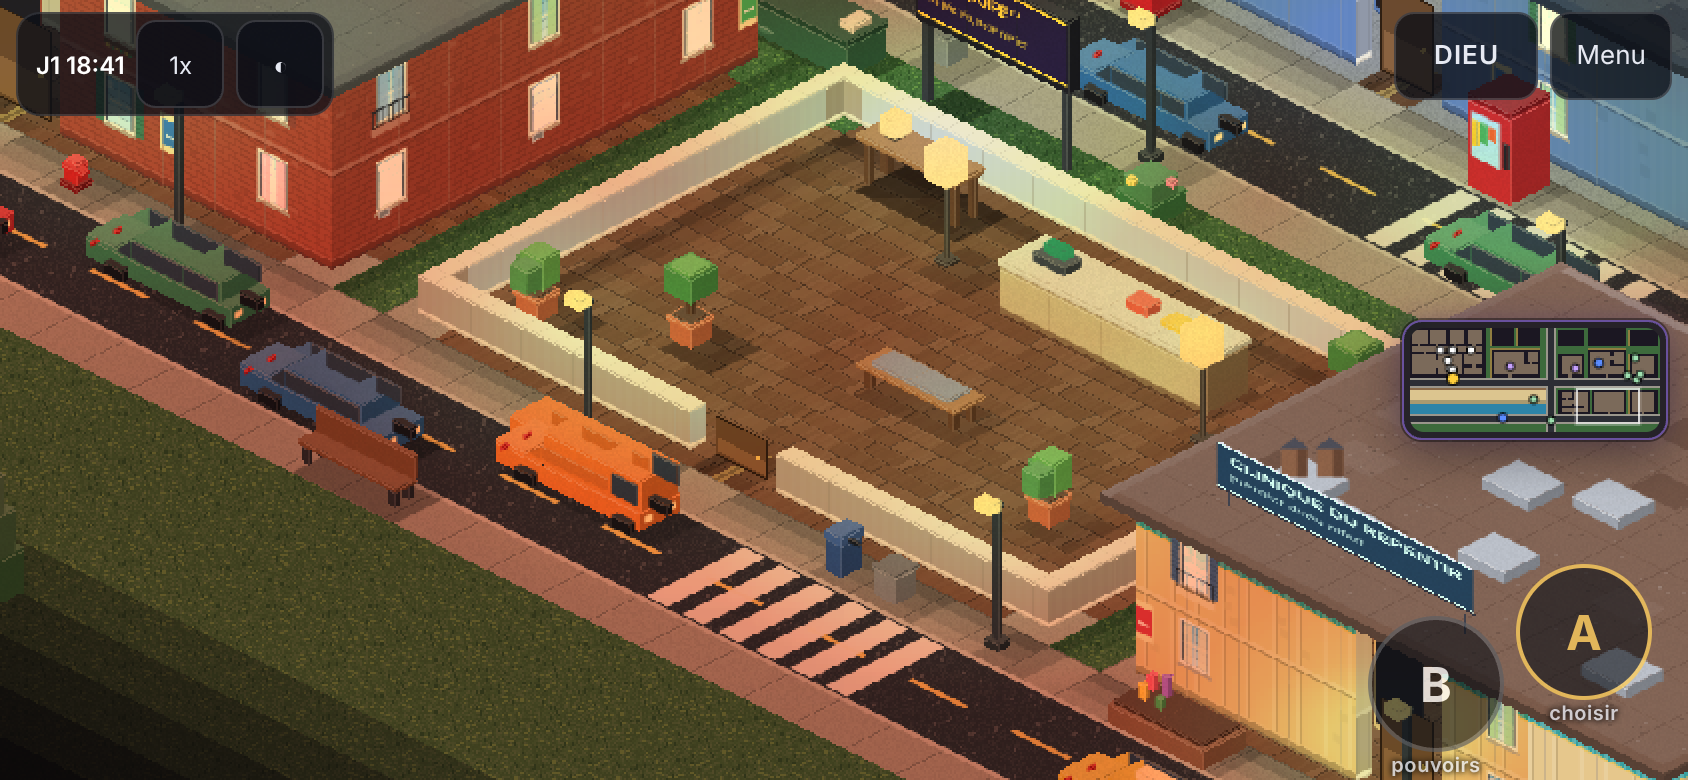
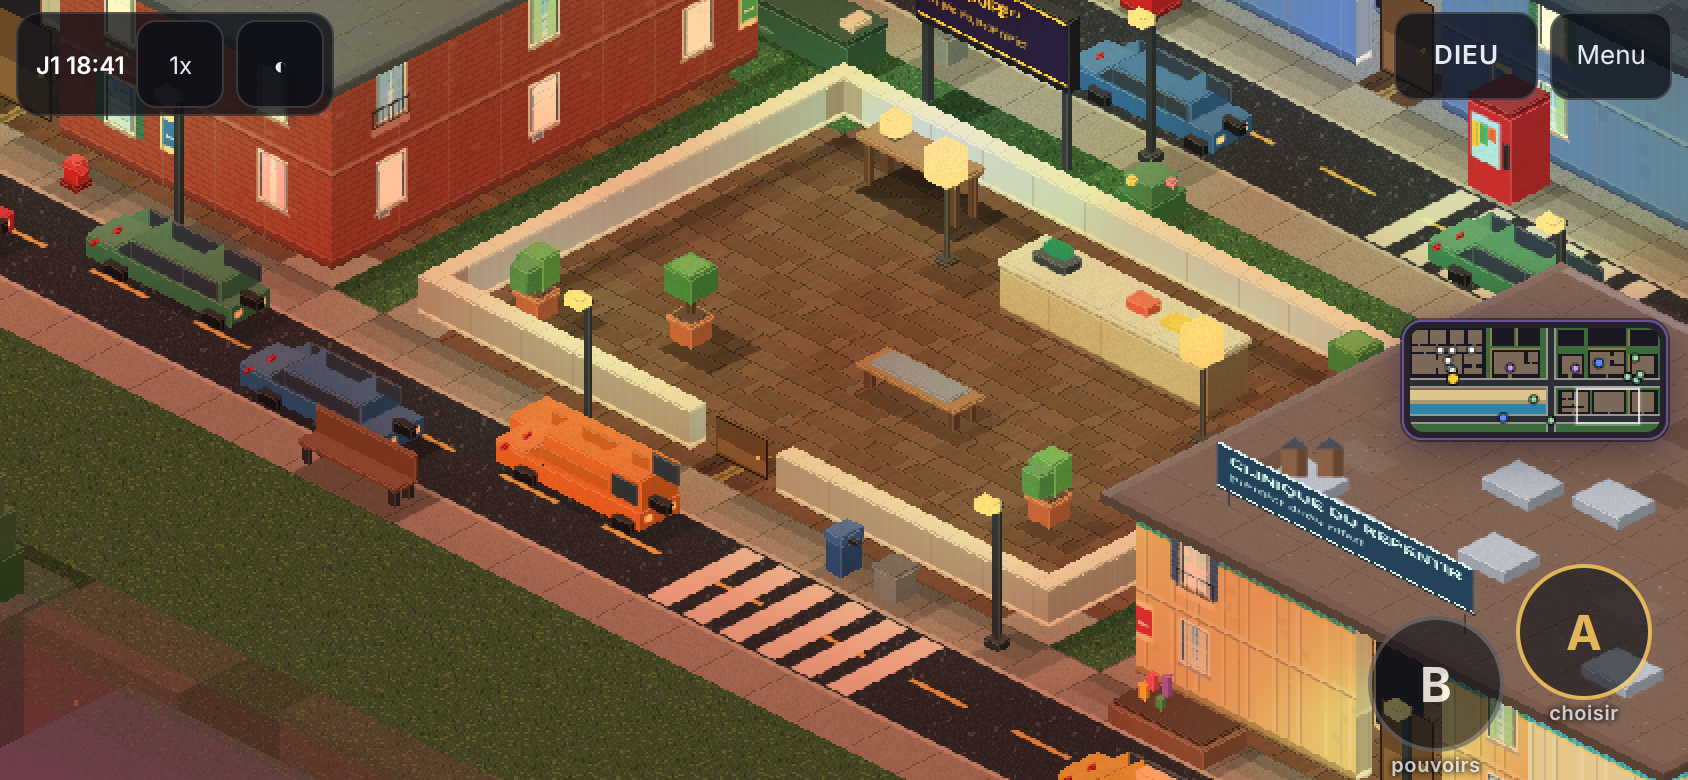
Captures (batterie en cours)
Claude-Session: https://claude.ai/code/session_01TgHL2ERFFt3nTP8cEL1RNQ

diff --git a/src/view/skyline.ts b/src/view/skyline.ts
@@ -1,0 +1,45 @@
+import Phaser from 'phaser';
+import * as L from '../sim/layout';
+import { toScreen } from './iso';
+import { hash2 } from '../art/core';
+
+/** Horizon urbain : rangées d'immeubles lointains (volumes isométriques voilés par la brume) tout autour de la carte jouable, pour que NORIA continue au-delà de ce qu'on voit.
+ *  Purement décoratif (non simulé, aucun sol marchable) ; dessiné une fois par rangée, sous le sol. */
+export class Skyline {
+  g: Phaser.GameObjects.Graphics;
+  constructor(scene: Phaser.Scene, private low: boolean) {
+    this.g = scene.add.graphics().setDepth(-3100); this.draw();
+  }
+  private box(x: number, y: number, w: number, d: number, h: number, base: number[], haze: number, seed: number) {
+    const g = this.g, P = (a: number, b: number, z: number) => { const s = toScreen(a, b); return { x: s.x, y: s.y - z }; };
+    const mix = (c: number[], k: number) => { const hz = [0.36, 0.28, 0.5]; return Phaser.Display.Color.GetColor(((c[0] * (1 - haze) + hz[0] * haze) * k) * 255, ((c[1] * (1 - haze) + hz[1] * haze) * k) * 255, ((c[2] * (1 - haze) + hz[2] * haze) * k) * 255); };
+    const quad = (pts: { x: number; y: number }[], col: number) => { g.fillStyle(col, 1); g.beginPath(); g.moveTo(pts[0].x, pts[0].y); for (let i = 1; i < pts.length; i++) g.lineTo(pts[i].x, pts[i].y); g.closePath(); g.fillPath(); };
+    quad([P(x, y + d, 0), P(x + w, y + d, 0), P(x + w, y + d, h), P(x, y + d, h)], mix(base, 0.92));
+    quad([P(x + w, y, 0), P(x + w, y + d, 0), P(x + w, y + d, h), P(x + w, y, h)], mix(base, 0.68));
+    quad([P(x, y, h), P(x + w, y, h), P(x + w, y + d, h), P(x, y + d, h)], mix(base, 1.12));
+    // fenêtres allumées (quelques points chauds sur la face sud)
+    const rows = Math.floor(h / 14), cols = Math.max(1, Math.floor(w * 1.4));
+    for (let r = 1; r < rows; r++) for (let c = 0; c < cols; c++) if (hash2(seed + r, c, 9) > 0.62) { const a = x + (c + 0.35) * (w / cols), p = P(a, y + d, r * 14); g.fillStyle(0xffd488, 0.7 - haze * 0.4); g.fillRect(p.x - 1.5, p.y - 3, 3, 4); }
+    if (h > 140 && hash2(seed, 5, 3) > 0.5) { const t = P(x + w * 0.5, y + d * 0.5, h); g.fillStyle(0xcfd2dd, 0.8); g.fillRect(t.x - 1, t.y - 22, 2, 22); g.fillStyle(0xff4a6a, 0.9); g.fillRect(t.x - 1, t.y - 24, 3, 3); }   // antenne à feu rouge
+  }
+  private draw() {
+    const W = L.W, H = L.H; const PAL = [[0.72, 0.5, 0.42], [0.55, 0.58, 0.66], [0.8, 0.7, 0.55], [0.5, 0.42, 0.55], [0.66, 0.4, 0.38], [0.45, 0.6, 0.62]];
+    const items: { k: number; fn: () => void }[] = [];
+    const row = (axis: 'x' | 'y', fixed: number, from: number, to: number, layer: number, seed: number) => {
+      let u = from; let i = 0; while (u < to) {
+        const w = 3 + Math.floor(hash2(seed, i, 1) * 4), d = 3 + Math.floor(hash2(seed, i, 2) * 3), gap = hash2(seed, i, 3) > 0.75 ? 2 : 0; const h = 70 + hash2(seed, i, 4) * (layer === 0 ? 150 : 230) + (hash2(seed, i, 5) > 0.9 ? 160 : 0); const base = PAL[Math.floor(hash2(seed, i, 6) * PAL.length)];
+        const bx = axis === 'x' ? u : fixed, by = axis === 'x' ? fixed : u; const bw = axis === 'x' ? w : d, bd = axis === 'x' ? d : w; const haze = layer === 0 ? 0.5 : 0.72; const sd = seed * 100 + i;
+        items.push({ k: bx + by, fn: () => this.box(bx, by, bw, bd, h, base, haze, sd) }); u += w + gap; i++;
+      }
+    };
+    const stepLayers = this.low ? [0] : [1, 0];
+    for (const layer of stepLayers) {
+      const off = layer === 0 ? 4 : 9;
+      row('x', -off - 3, -12, W + 10, layer, 11 + layer);       // nord
+      row('y', -off - 3, -12, H + 10, layer, 21 + layer);       // ouest
+      row('y', W + off, -6, H + 10, layer, 31 + layer);         // est
+      row('x', H + off, -6, W + 10, layer, 41 + layer);         // sud
+    }
+    items.sort((a, b) => a.k - b.k).forEach((it) => it.fn());
+  }
+}

diff --git a/src/view/scene.ts b/src/view/scene.ts
@@ -10,6 +10,7 @@ import { furnSprite, rugCanvas } from '../art/furn';
 import { CharView } from './charview';
 import { WeatherFx } from './weatherfx';
 import { SeaFx } from './seafx';
+import { Skyline } from './skyline';
 import { Lighting } from './lighting';
 import { cellKey, toGrid, toScreen, zOf } from './iso';
 import { texKey } from './texreg';
@@ -100,7 +101,7 @@ export class GameScene extends Phaser.Scene {
     this.bakeFloor(); this.buildWalls(); this.buildFurniture(); this.doors = new Doors(this, this.world, (x, y) => this.wallHeight(x, y)); this.buildRoofs(); this.buildDecor();
     this.chars = this.world.chars.map((c) => new CharView(this, c, this.world));
     this.fx = this.add.graphics().setDepth(3800);
-    this.lighting = new Lighting(this, this.world); this.wfx = new WeatherFx(this, this.world, this.lighting, () => this.lowQuality); this.sea = new SeaFx(this, this.world, () => this.lowQuality);
+    this.lighting = new Lighting(this, this.world); this.wfx = new WeatherFx(this, this.world, this.lighting, () => this.lowQuality); this.sea = new SeaFx(this, this.world, () => this.lowQuality); new Skyline(this, this.lowQuality);
     this.world.listeners.log = []; this.world.listeners.emote = [];
   }
   destroyView() {
